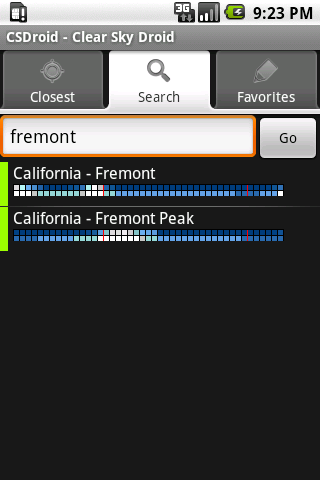
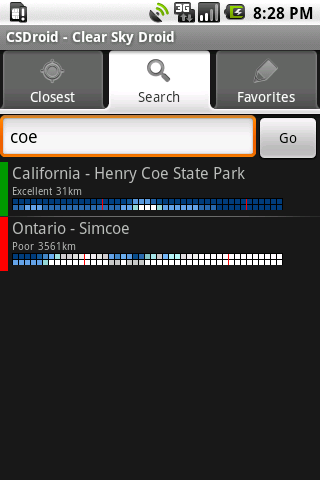
1.0.3

diff --git a/trunk/src/org/jtb/csc/CSCManager.java b/trunk/src/org/jtb/csc/CSCManager.java
@@ -47,6 +47,9 @@ public class CSCManager {
 	private File cacheDir;
 	private File siteFile;
 	private File siteLocationFile;
+	private LocationManager locationManager;
+	private String locationProvider;
+	private Location dummyLocation;
 
 	private CSCManager(Context context) {
 		this.context = context;
@@ -56,6 +59,13 @@ public class CSCManager {
 		siteFile = new File(cacheDir.toString() + "/" + "chart_prop00.txt");
 		siteLocationFile = new File(cacheDir.toString() + "/"
 				+ "chart_keys00.txt");
+
+		locationManager = (LocationManager) context
+				.getSystemService(Context.LOCATION_SERVICE);
+		locationProvider = locationManager
+				.getBestProvider(new Criteria(), true);
+		dummyLocation = new Location(locationProvider);
+
 	}
 
 	public synchronized static CSCManager getInstance(Context context) {
@@ -67,7 +77,7 @@ public class CSCManager {
 		return manager;
 	}
 
-	public synchronized void refresh() {
+	private synchronized void refresh() {
 		//
 		// only refresh if time stamp doesn't exist or
 		// it was created beyond refresh interval
@@ -274,18 +284,21 @@ public class CSCManager {
 		}
 	}
 
-	public synchronized List<Site> getSites(Location location, int maxSites) {
-		LocationManager lm = (LocationManager) context
-				.getSystemService(Context.LOCATION_SERVICE);
-		String name = lm.getBestProvider(new Criteria(), true);
+	private void setDistance(Location l, Site s) {
+		// TODO: can we avoid this is the distance is already set?
+		// have to take care to update correctly when location
+		// changes
+		
+		dummyLocation.setLatitude(s.getLatitude());
+		dummyLocation.setLongitude(s.getLongitude());
+		float d = l.distanceTo(dummyLocation);
+		s.setDistance(d);
+	}
 
+	public synchronized List<Site> getSites(Location location, int maxSites) {
 		List<Site> sites = new ArrayList<Site>();
 		for (Site s : siteMap.values()) {
-			Location l = new Location(name);
-			l.setLatitude(s.getLatitude());
-			l.setLongitude(s.getLongitude());
-			float dt = location.distanceTo(l);
-			s.setDistance(dt);
+			setDistance(location, s);
 			sites.add(s);
 		}
 		Collections.sort(sites, new Site.DistanceComparator<Site>());
@@ -299,13 +312,14 @@ public class CSCManager {
 	}
 
 	public synchronized List<Site> getSites(String s, int maxSites) {
+		Location location = locationManager
+				.getLastKnownLocation(locationProvider);
+
 		List<Site> sites = new ArrayList<Site>();
 		for (Site site : siteMap.values()) {
 			if (site.matches(s)) {
+				setDistance(location, site);
 				sites.add(site);
-			}
-			if (sites.size() == maxSites) {
-				break;
 			}
 		}
 		Collections.sort(sites, new Site.DistanceComparator<Site>());
@@ -319,13 +333,19 @@ public class CSCManager {
 	}
 
 	public synchronized List<Site> getSites(Collection<String> siteIds) {
+		Location location = locationManager
+				.getLastKnownLocation(locationProvider);
+
 		List<Site> sites = new ArrayList<Site>();
 		for (String id : siteIds) {
 			Site s = siteMap.get(id);
 			if (s == null) {
-				Log.w(getClass().getSimpleName(), "no site found for id: " + id);
+				Log
+						.w(getClass().getSimpleName(), "no site found for id: "
+								+ id);
 				continue;
 			}
+			setDistance(location, s);
 			sites.add(s);
 		}
 		Collections.sort(sites, new Site.DistanceComparator<Site>());

diff --git a/trunk/src/org/jtb/csdroid/ClosestActivity.java b/trunk/src/org/jtb/csdroid/ClosestActivity.java
@@ -58,6 +58,7 @@ public class ClosestActivity extends Activity implements LocationListener {
 	private ClosestActivity mThis;
 	private Timer mTimer = new Timer();
 	private String mRefreshError = null;
+	private Location mLocation = null;
 	
 	private Handler mHandler = new Handler() {
 		@Override
@@ -115,7 +116,9 @@ public class ClosestActivity extends Activity implements LocationListener {
 					"no best location provider returned");
 		}
 		// LocationProvider lp = lm.getProvider(name);
-		onLocationChanged(lm.getLastKnownLocation(name));
+		Location l = lm.getLastKnownLocation(name);
+		onLocationChanged(l);
+		
 		lm.requestLocationUpdates(name, 10 * 60 * 1000, 10 * 1000, mThis); 
 	}
 
@@ -153,6 +156,11 @@ public class ClosestActivity extends Activity implements LocationListener {
 							LOCATION_WAIT_DIALOG_SHOW_WHAT));
 					return;
 				}
+				if (mLocation != null && mLocation.distanceTo(location) < 10) {
+					return;
+				}
+				mLocation = location;
+				
 				if (mLocationWaitDialog != null) {
 					mHandler.sendMessage(Message.obtain(mHandler,
 							LOCATION_WAIT_DIALOG_DISMISS_WHAT));

diff --git a/trunk/src/org/jtb/csdroid/SearchActivity.java b/trunk/src/org/jtb/csdroid/SearchActivity.java
@@ -45,6 +45,7 @@ public class SearchActivity extends Activity {
 	private ListView mCSCListView;
 	private SearchActivity mThis;
 	private Button mSearchButton;
+	private String lastSearchString = null;
 
 	private Handler mHandler = new Handler() {
 		@Override
@@ -114,6 +115,13 @@ public class SearchActivity extends Activity {
 	public void search() {
 		new Thread(new Runnable() {
 			public void run() {
+				String searchString = mSearchEdit.getText().toString();
+				if (lastSearchString != null
+						&& searchString.equalsIgnoreCase(lastSearchString)) {
+					return;
+				}
+				lastSearchString = searchString;
+				
 				Message m = Message
 						.obtain(mHandler, SEARCHING_DIALOG_SHOW_WHAT);
 				mHandler.sendMessage(m);

diff --git a/trunk/src/org/jtb/csdroid/FavesActivity.java b/trunk/src/org/jtb/csdroid/FavesActivity.java
@@ -102,6 +102,10 @@ public class FavesActivity extends Activity implements
 	public void update() {
 		new Thread(new Runnable() {
 			public void run() {
+				if (mSites != null) {
+					return;
+				}
+				
 				Message m = Message.obtain(mHandler, UPDATE_DIALOG_SHOW_WHAT);
 				mHandler.sendMessage(m);
 				m = Message.obtain(mHandler,
@@ -144,6 +148,7 @@ public class FavesActivity extends Activity implements
 	public void onSharedPreferenceChanged(SharedPreferences sharedPreferences,
 			String key) {
 		if (key.equals("faves")) {
+			mSites = null;
 			update();
 		}
 	}
